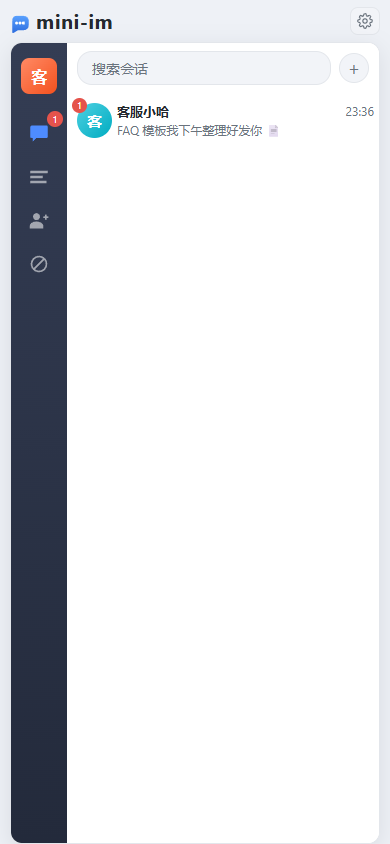
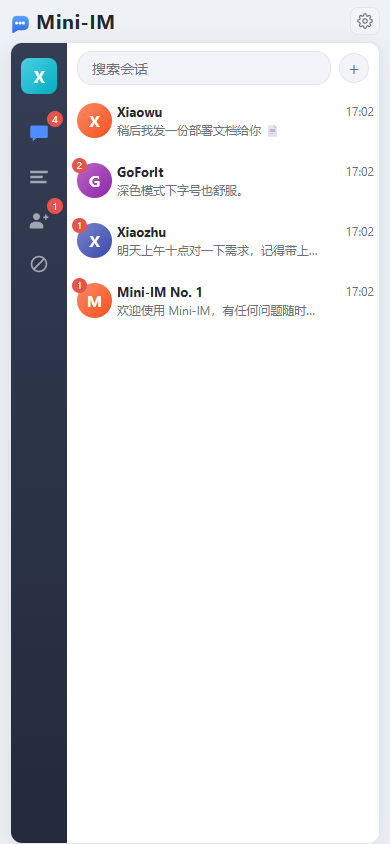
docs: README 截图重截与演示账号改名，config.yaml 不再入库
- 截图按真实运行的实例重拍（PC 1280x800、登录 / 注册页 900x620、手机端 390x844），
  演示账号与 config.example.yaml 的 seed.accounts 对齐
  （Mini-IM No. 1 / No. 2 / No. 3、Xiaoha、Xiaowu、Xiaozhu、GoForIt）
- .gitignore 新增 /config.yaml 与 /config.yaml.bak，仓库只带模板 config.example.yaml：
  原入库的 config.yaml 带着开发用的 JWT 密钥与本地库名（如 mini-im-2）
- README / README.en.md 的快速开始、配置、项目结构、Redis key 前缀说明改指模板，
  演示账号表与接口示例里的昵称同步更新

diff --git a/README.en.md b/README.en.md
@@ -33,9 +33,9 @@ The same page adapts responsively to desktop and mobile, with no bundler and no 
 
 ## UI preview
 
-> Every screenshot below was taken with the demo accounts created by the `seed` section of `config.yaml`
-> (客服小哈 / 客服小吴 / 客服小朱 / 客服505). Set `seed.enabled` to `true` and restart to get the exact
-> same starting data.
+> Every screenshot below was taken with the demo accounts created by the `seed` section of
+> `config.example.yaml` (Mini-IM No. 1 / Xiaoha / Xiaowu / Xiaozhu / GoForIt). Set `seed.enabled` to
+> `true` and restart to get the exact same starting data.
 
 ### Desktop
 
@@ -70,6 +70,7 @@ go run .                      # start the service
 
 > With no `config.yaml` present, mini-im enters the [setup wizard](#setup-wizard) first: open
 > <http://localhost:8280/setup>, fill in the database / Redis and save — the service then starts by itself.
+> You can also `cp config.example.yaml config.yaml` and edit it before starting (`config.yaml` is a local file and is not tracked).
 
 Open <http://127.0.0.1:8280/> — it redirects to `/web/index.html`.
 When no token is present the front end sends you to `/web/login.html`; register or sign in to reach the chat page.
@@ -80,28 +81,34 @@ search by username or nickname and send a request. Once the other side accepts, 
 
 ### Demo accounts (opt-in)
 
-`seed.enabled` in `config.yaml` defaults to `false`. Set it to `true` and restart to create the accounts
+`seed.enabled` in `config.example.yaml` (and in the `config.yaml` rendered from it) defaults to `false`. Set it to `true` and restart to create the accounts
 below and **make every pair mutual contacts**, so you can chat out of the box. The password comes from
 `seed.password` (default `123123`):
 
 | Username | Nickname |
 | --- | --- |
-| `ha1234` | 客服小哈 &nbsp;(Agent Ha) |
-| `wu1234` | 客服小吴 &nbsp;(Agent Wu) |
-| `zhu333` | 客服小朱 &nbsp;(Agent Zhu) |
-| `for505` | 客服505 &nbsp;(Agent 505) |
+| `mini-im-1` | Mini-IM No. 1 |
+| `mini-im-2` | Mini-IM No. 2 |
+| `mini-im-3` | Mini-IM No. 3 |
+| `ha1234` | Xiaoha |
+| `wu1234` | Xiaowu |
+| `zhu333` | Xiaozhu |
+| `goforit` | GoForIt |
 
-Both the usernames and the nicknames live in `seed.accounts` of `config.yaml` — add or remove entries as you like:
+Both the usernames and the nicknames live in `seed.accounts` of the local `config.yaml` — add or remove entries as you like:
 
 ```yaml
 seed:
   enabled: false            # set to true and restart to take effect
   password: "123123"
   accounts:
-    - { username: ha1234,  nickname: 客服小哈 }
-    - { username: wu1234,  nickname: 客服小吴 }
-    - { username: zhu333,  nickname: 客服小朱 }
-    - { username: for505,  nickname: 客服505 }
+    - { username: mini-im-1,  nickname: Mini-IM No. 1 }
+    - { username: mini-im-2,  nickname: Mini-IM No. 2 }
+    - { username: mini-im-3,  nickname: Mini-IM No. 3 }
+    - { username: ha1234,  nickname: Xiaoha }
+    - { username: wu1234,  nickname: Xiaowu }
+    - { username: zhu333,  nickname: Xiaozhu }
+    - { username: goforit,  nickname: GoForIt }
 ```
 
 Seeding is idempotent: if an account already exists, only the nickname and avatar are filled in — the password
@@ -123,7 +130,12 @@ CREATE DATABASE "mini-im" ENCODING 'UTF8';
 
 ### Configuration
 
-`config.yaml` defaults to: PostgreSQL `127.0.0.1:5432` / `postgres` / `123456` / database `mini-im`,
+`config.yaml` is a **local file and is not tracked**: the repository only ships the template
+`config.example.yaml`. With no `config.yaml` present, the first run renders it through the
+[setup wizard](#setup-wizard); alternatively `cp config.example.yaml config.yaml` and edit it yourself.
+`.gitignore` covers both `config.yaml` and the `config.yaml.bak` backup made when reconfiguring — commit neither.
+
+Template defaults: PostgreSQL `127.0.0.1:5432` / `postgres` / `123456` / database `mini-im`,
 Redis `127.0.0.1:6379` DB `1`, HTTP port `8280`.
 `app.name` (default `mini-im`) is also used as the Redis key prefix, so changing it is equivalent to switching
 to a whole new cache namespace.
@@ -344,8 +356,8 @@ Content-Type: application/json
     "user": {
       "id": "364066726138089472",
       "username": "ha1234",
-      "nickname": "客服小哈",
-      "avatar": "/avatar?label=%E5%AE%A2%E6%9C%8D%E5%B0%8F%E5%93%88&name=ha1234"
+      "nickname": "Xiaoha",
+      "avatar": "/avatar?label=Xiaoha&name=ha1234"
     },
     "tokens": { "token": "eyJhbGciOi...", "exp": 1790843147 }
   }
@@ -369,7 +381,7 @@ the entity fields:
   "friend_id": "1",
   "create_time": 1790843147,
   "type": 1,
-  "user": { "id": "1", "nickname": "客服小哈", "avatar": "/avatar?..." }
+  "user": { "id": "1", "nickname": "Xiaoha", "avatar": "/avatar?..." }
 }
 ```
 
@@ -386,7 +398,7 @@ An element of the conversation list `GET /api/messages` looks like this:
   "content_type": "text",
   "uid": "364066726138089472",
   "msg_count": 2,
-  "user": { "id": "364066726138089472", "nickname": "客服小哈", "avatar": "/avatar?..." }
+  "user": { "id": "364066726138089472", "nickname": "Xiaoha", "avatar": "/avatar?..." }
 }
 ```
 
@@ -474,8 +486,8 @@ Current baseline: **94/94 assertions passing**.
 
 ```
 main.go                 Entry point: load config (wizard first if missing) → init components → start serving → graceful shutdown
-config.yaml             Configuration (local)
-config.example.yaml     Config template: the base the setup wizard renders config.yaml from
+config.yaml             Local configuration (not tracked: written by the wizard or copied from the template)
+config.example.yaml     Config template (tracked): the base the setup wizard renders config.yaml from
 docker-compose.yml      PostgreSQL + Redis
 conf/                   Config loading and validation, template-based write-back, Redis key generation
 setup/                  First-run setup wizard (page + connection probe + write-back)
@@ -575,7 +587,7 @@ Time fields are Unix seconds throughout. Friendships are matched bidirectionally
 
 ### Redis keys
 
-The prefix is `app.name` (`mini-im` in `config.yaml`) and all key generation is centralized in `conf/config.go`.
+The prefix is `app.name` (`mini-im` in `config.example.yaml`) and all key generation is centralized in `conf/config.go`.
 
 | Key | Type | Purpose |
 | --- | --- | --- |

diff --git a/README.md b/README.md
@@ -32,7 +32,7 @@ Go + Gin + GORM(PostgreSQL) + Redis 实现的即时通讯 / 客服系统。
 
 ## 界面预览
 
-> 下面的截图都取自 `config.yaml` 中 `seed` 段写入的演示账号（客服小哈 / 客服小吴 / 客服小朱 / 客服505），
+> 下面的截图都取自 `config.example.yaml` 中 `seed` 段写入的演示账号（Mini-IM No. 1 / Xiaoha / Xiaowu / Xiaozhu / GoForIt），
 > 把 `seed.enabled` 改成 `true` 重启即可得到完全一致的初始数据。
 
 ### PC 端
@@ -67,7 +67,8 @@ go run .                      # 启动服务
 ```
 
 > 目录里没有 `config.yaml` 时会先进入[初始化配置向导](#初始化配置向导)：浏览器打开
-> <http://localhost:8280/setup> 填好数据库 / Redis 并保存，服务随即自动启动。
+> <http://localhost:8280/setup> 填好数据库 / Redis 并保存，服务随即自动启动；
+> 也可以先 `cp config.example.yaml config.yaml` 改好配置再启动（`config.yaml` 是本地文件、不入库）。
 
 打开 <http://127.0.0.1:8280/>，会自动跳转到 `/web/index.html`；
 未登录时前端会引导到 `/web/login.html`，注册或登录后进入聊天页。
@@ -77,27 +78,33 @@ go run .                      # 启动服务
 
 ### 演示账号（默认不创建）
 
-`config.yaml` 里 `seed.enabled` 默认是 `false`。改成 `true` 后重启，会写入下面这组账号，
+`config.example.yaml`（以及由它写出的 `config.yaml`）里 `seed.enabled` 默认是 `false`。改成 `true` 后重启，会写入下面这组账号，
 并**两两互加好友**，开箱即可互发消息，密码取 `seed.password`（默认 `123123`）：
 
 | 账号 | 昵称 |
 | --- | --- |
-| `ha1234` | 客服小哈 |
-| `wu1234` | 客服小吴 |
-| `zhu333` | 客服小朱 |
-| `for505` | 客服505 |
+| `mini-im-1` | Mini-IM No. 1 |
+| `mini-im-2` | Mini-IM No. 2 |
+| `mini-im-3` | Mini-IM No. 3 |
+| `ha1234` | Xiaoha |
+| `wu1234` | Xiaowu |
+| `zhu333` | Xiaozhu |
+| `goforit` | GoForIt |
 
-账号名与昵称都在 `config.yaml` 的 `seed.accounts` 里，按需增删即可：
+账号名与昵称都在本地 `config.yaml` 的 `seed.accounts` 里，按需增删即可：
 
 ```yaml
 seed:
   enabled: false            # 改成 true 后重启生效
   password: "123123"
   accounts:
-    - { username: ha1234,  nickname: 客服小哈 }
-    - { username: wu1234,  nickname: 客服小吴 }
-    - { username: zhu333,  nickname: 客服小朱 }
-    - { username: for505,  nickname: 客服505 }
+    - { username: mini-im-1,  nickname: Mini-IM No. 1 }
+    - { username: mini-im-2,  nickname: Mini-IM No. 2 }
+    - { username: mini-im-3,  nickname: Mini-IM No. 3 }
+    - { username: ha1234,  nickname: Xiaoha }
+    - { username: wu1234,  nickname: Xiaowu }
+    - { username: zhu333,  nickname: Xiaozhu }
+    - { username: goforit,  nickname: GoForIt }
 ```
 
 初始化是幂等的：账号已存在时只补齐昵称与头像，不覆盖密码，重复启动安全。
@@ -117,7 +124,11 @@ CREATE DATABASE "mini-im" ENCODING 'UTF8';
 
 ### 配置
 
-`config.yaml` 默认为：PostgreSQL `127.0.0.1:5432` / `postgres` / `123456` / 库 `mini-im`，
+`config.yaml` 是**本地文件、不入库**：仓库里只带模板 `config.example.yaml`，首次启动没有 `config.yaml`
+时由[初始化配置向导](#初始化配置向导)按模板写出，也可以自己 `cp config.example.yaml config.yaml` 后修改。
+`.gitignore` 已忽略 `config.yaml` 与向导重配时的备份 `config.yaml.bak`，两者都不要提交。
+
+模板默认值：PostgreSQL `127.0.0.1:5432` / `postgres` / `123456` / 库 `mini-im`，
 Redis `127.0.0.1:6379` DB `1`，HTTP 端口 `8280`。
 `app.name`（默认 `mini-im`）同时作为 Redis key 的前缀，改它等于换一套缓存命名空间。
 
@@ -322,8 +333,8 @@ Content-Type: application/json
     "user": {
       "id": "364066726138089472",
       "username": "ha1234",
-      "nickname": "客服小哈",
-      "avatar": "/avatar?label=%E5%AE%A2%E6%9C%8D%E5%B0%8F%E5%93%88&name=ha1234"
+      "nickname": "Xiaoha",
+      "avatar": "/avatar?label=Xiaoha&name=ha1234"
     },
     "tokens": { "token": "eyJhbGciOi...", "exp": 1790843147 }
   }
@@ -345,7 +356,7 @@ Content-Type: application/json
   "friend_id": "1",
   "create_time": 1790843147,
   "type": 1,
-  "user": { "id": "1", "nickname": "客服小哈", "avatar": "/avatar?..." }
+  "user": { "id": "1", "nickname": "Xiaoha", "avatar": "/avatar?..." }
 }
 ```
 
@@ -361,7 +372,7 @@ Content-Type: application/json
   "content_type": "text",
   "uid": "364066726138089472",
   "msg_count": 2,
-  "user": { "id": "364066726138089472", "nickname": "客服小哈", "avatar": "/avatar?..." }
+  "user": { "id": "364066726138089472", "nickname": "Xiaoha", "avatar": "/avatar?..." }
 }
 ```
 
@@ -444,8 +455,8 @@ redis-cli -n 1 flushdb
 
 ```
 main.go                 入口：加载配置（缺失则先进向导）→ 初始化组件 → 启动服务 → 优雅退出
-config.yaml             配置（本地）
-config.example.yaml     配置模板：初始化向导写回 config.yaml 时的底稿
+config.yaml             本地配置（不入库：向导写出或复制模板生成）
+config.example.yaml     配置模板（入库）：初始化向导写回 config.yaml 时的底稿
 docker-compose.yml      PostgreSQL + Redis
 conf/                   配置加载与校验、按模板渲染写回、Redis key 生成
 setup/                  首次启动的初始化配置向导（页面 + 连接探测 + 写回）
@@ -537,7 +548,7 @@ node tools/trim-bootstrap.cjs --write    # 校验通过后写入
 
 ### Redis key
 
-前缀取 `app.name`（`config.yaml` 中为 `mini-im`），生成逻辑集中在 `conf/config.go`。
+前缀取 `app.name`（`config.example.yaml` 中为 `mini-im`），生成逻辑集中在 `conf/config.go`。
 
 | Key | 类型 | 用途 |
 | --- | --- | --- |
